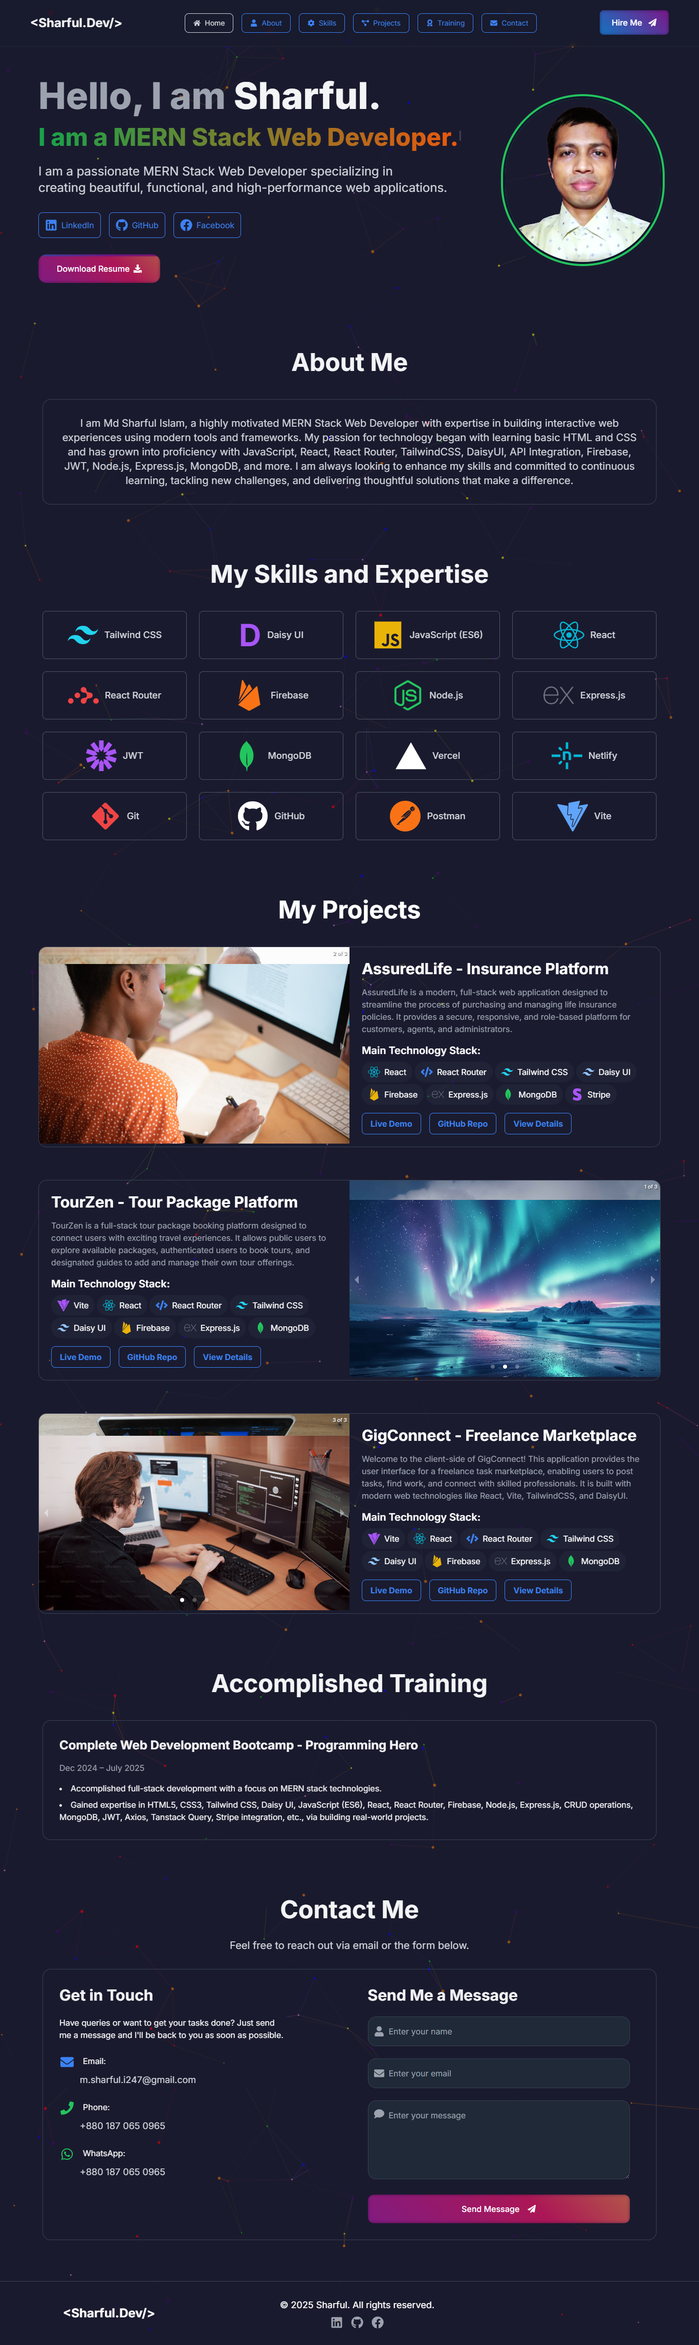
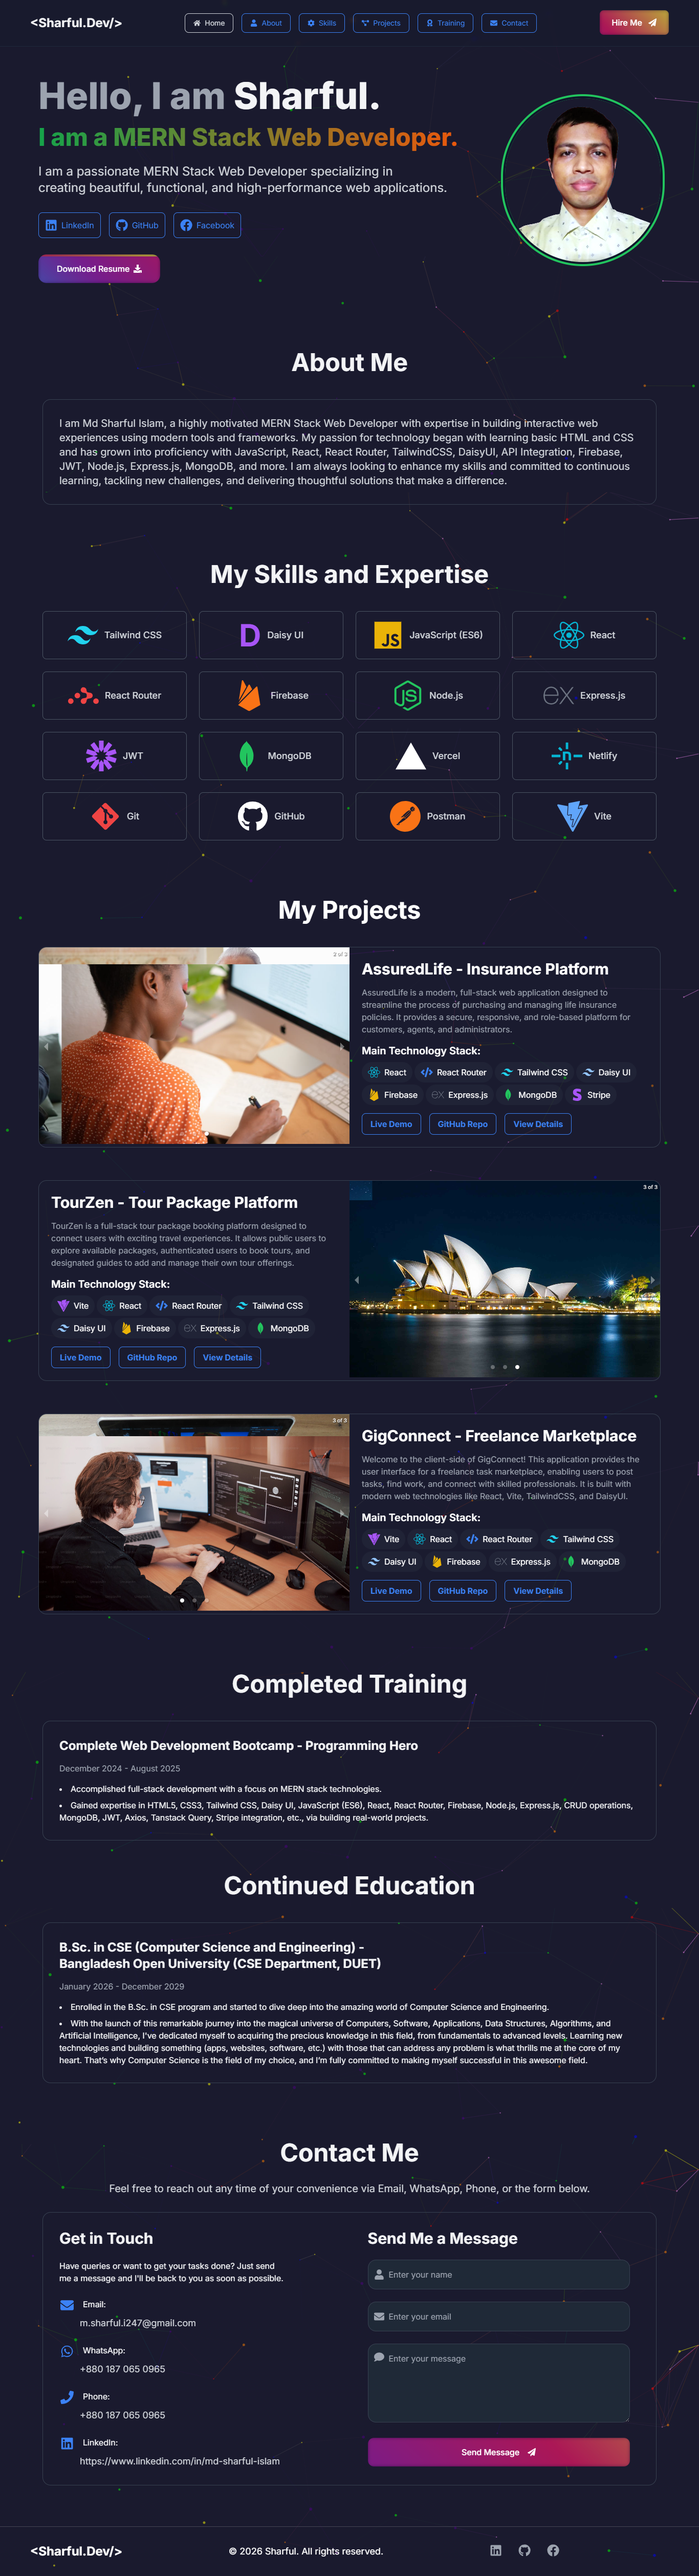
Updated README.md & added full-page screenshot of Live Site.

diff --git a/README.md b/README.md
@@ -10,7 +10,7 @@ I am Md Sharful Islam, a highly motivated MERN Stack Web Developer with expertis
 
 
 # Live Link 
-📟 [Md Sharful Islam](https://ronnie012.github.io/sharful.dev/):    [https://ronnie012.github.io/sharful.dev/]
+📟 [Md Sharful Islam](https://sharful-dev.vercel.app/):    [https://sharful-dev.vercel.app/]
 
 
 # Screenshot of My Live Portfolio Website
@@ -37,11 +37,11 @@ Below is a selection of projects I have built that demonstrate my ability to sol
 
 
 
-1. [Insurance Policy Management Website](https://assured-life.web.app/). A responsive web application for booking lawyer appointments, built with HTML, TailwindCSS, DaisyUI, JavaScript, React, React Router, Firebase, Express.js, and MongoDB.
+1. [Insurance Policy Management Website](https://assured-life-upgraded.web.app/). A responsive web application for booking lawyer appointments, built with HTML, TailwindCSS, DaisyUI, JavaScript, React, React Router, Firebase, Express.js, and MongoDB.
 
 2. [Tour Package Management Website](https://tour-zen-012-upgraded.web.app/). A responsive web application for booking lawyer appointments, built with HTML, TailwindCSS, DaisyUI, JavaScript, React, React Router, Firebase, Express.js, and MongoDB.
 
-3. [Freelance Task Marketplace Platform](https://gig-connect-012.web.app/). A responsive web application for booking lawyer appointments, built with HTML, TailwindCSS, DaisyUI, JavaScript, React, React Router, Firebase, Express.js, and MongoDB.
+3. [Freelance Task Marketplace Platform](https://gig-connect-012-upgraded.web.app/). A responsive web application for booking lawyer appointments, built with HTML, TailwindCSS, DaisyUI, JavaScript, React, React Router, Firebase, Express.js, and MongoDB.
 
 4. [Modern App Store Website](https://app-store-012.web.app/). A responsive web application for booking lawyer appointments, built with HTML, TailwindCSS, DaisyUI, JavaScript, React, and React Router.
 
@@ -69,10 +69,11 @@ My fascination with technology began at a young age, starting with basic HTML an
 # Contact Me
 I’m always excited to collaborate on new projects or discuss potential opportunities. Feel free to reach out: <br>
 Email: m.sharful.i247@gmail.com <br>
-Phone: +880 187065 0965 (WhatsApp) <br>
 WhatsApp: +880 187 065 0965 <br>
+Phone: +880 187 065 0965 <br>
+LinkedIn: https://linkedin.com/in/md-sharful-islam <br>
 GitHub: [ronnie012](https://github.com/ronnie012)
 
 <br>
 
-Built with passion by Md Sharful Islam  © 2025 Md Sharful Islam. All rights reserved.
+Built with passion by Md Sharful Islam  © 2026 Md Sharful Islam. All rights reserved.
